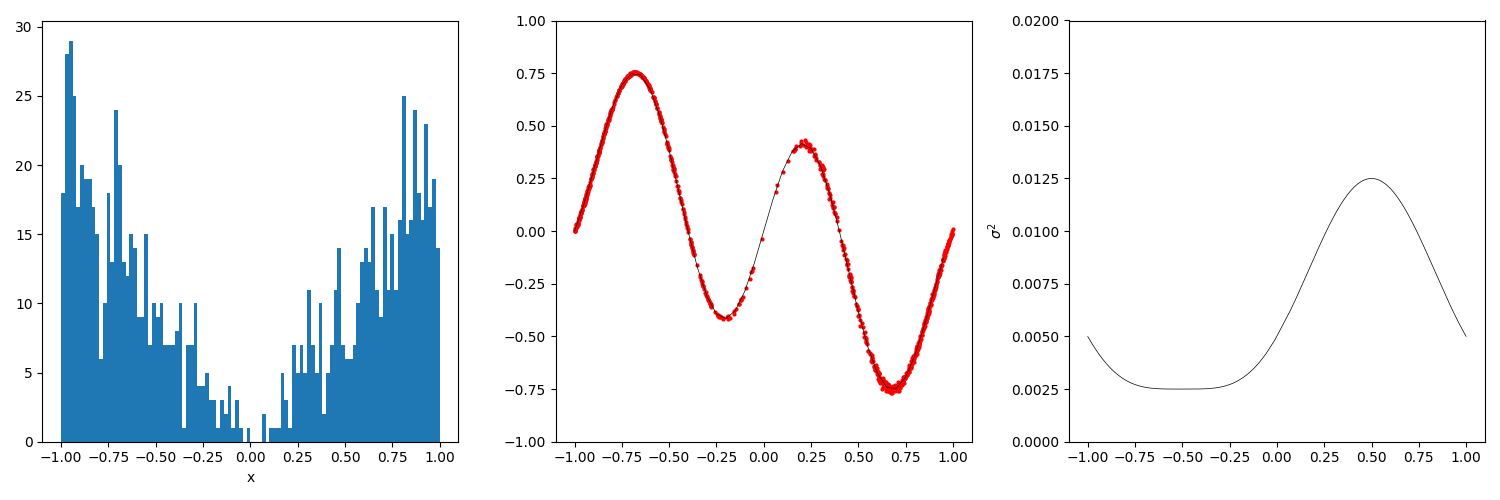
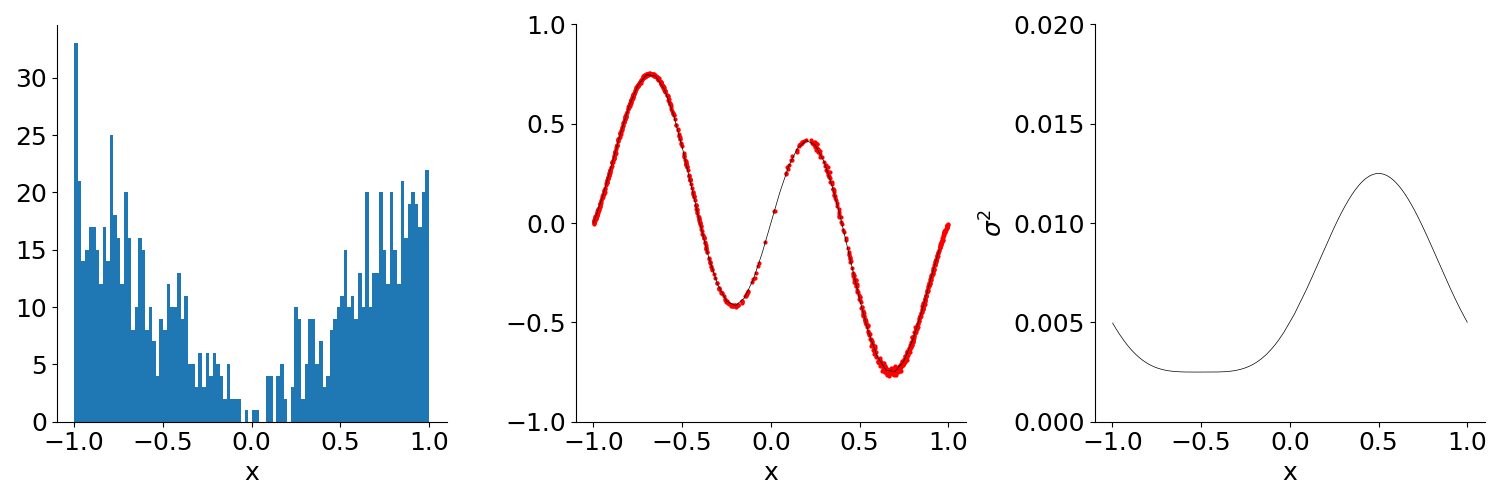
fixing README.md

diff --git a/src/net_est/data/data_generator.py b/src/net_est/data/data_generator.py
@@ -11,6 +11,8 @@ from scipy import stats
 from scipy.integrate import quad
 import matplotlib.pyplot as plt
 
+from net_est.utils.plots import set_plot
+
 
 class abs_value_dist(stats.rv_continuous):
     """
@@ -114,16 +116,24 @@ def generate_training_data(n_samples=50, create_plot=False):
     ix = np.argsort(x_sampled)
     if create_plot:
         fig, axes = plt.subplots(1, 3, figsize=(15, 5))
+        fs = 18
         ax = axes.ravel()
         ax[0].hist(x_sampled, bins=100)
-        ax[0].set_xlabel('x')
+        ax[0].set_xlabel('x', fontsize=fs)
+        set_plot(ax[0], labelsize=fs)
+
         x_grid = np.arange(-1, 1.0, 0.05)
         ax[1].plot(x_grid, target_function(x_grid), 'k-', lw=0.5)
         ax[1].scatter(x_sampled, y_e, c='r', s=4)
         ax[1].set_ylim([-1, 1])
+        ax[1].set_xlabel('x', fontsize=fs)
+        set_plot(ax[1], labelsize=fs)
+
         ax[2].plot(x_sampled[ix], sigma_e_squared[ix], 'k-', lw=0.5)
-        ax[2].set_ylabel(r"$\sigma^2$")
+        ax[2].set_ylabel(r"$\sigma^2$", fontsize=fs)
         ax[2].set_ylim([0, 0.02])
+        ax[2].set_xlabel('x', fontsize=fs)
+        set_plot(ax[2], labelsize=fs)
         plt.tight_layout()
         plt.savefig(os.path.join("/images", "training_data.png"))
 

diff --git a/README.md b/README.md
@@ -1,12 +1,19 @@
-# network-uncertainty
-Compares uncertainty estimation procedures for neural network regression
+# Network Uncertainty
 
-This code implements portions of the paper:
+Network Uncertainty implements methods for estimating neural network prediction intervals for regression tasks.  Currently, 
+the following methods are provided:
+
+* Bootstrap (Ensemble Networks)
+* Dropout enabled during inference
+
+The data generating process is based on the implementation provided in: 
 
 ["A Study of the Bootstrap Method for Estimating the Accuracy of Artificial Neural
 Networks in Predicting Nuclear Transient Processes"](https://ieeexplore.ieee.org/document/1645061)
 
-specifically investigating different ways of creating prediction intervals.
+<p align="center">
+  <img src="./images/training_data.png" alt="Training Data" width="738">
+</p>
 
 ## Prerequisites
 All required packages are located in `Docker/requirements.txt`.  The preferred way of running this code is through a
